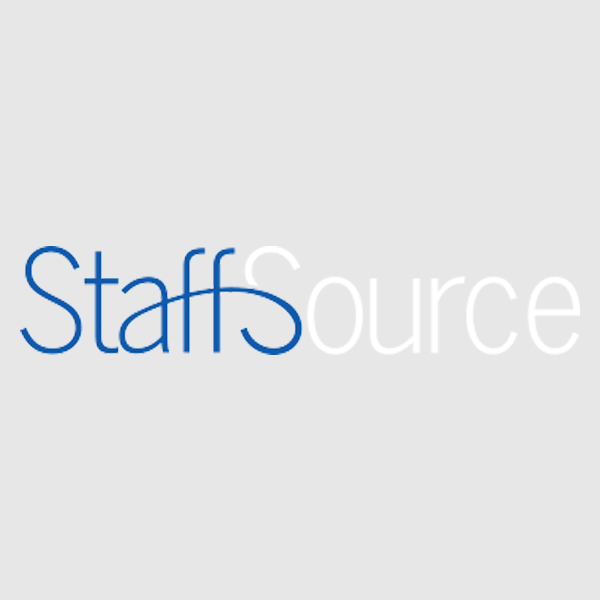
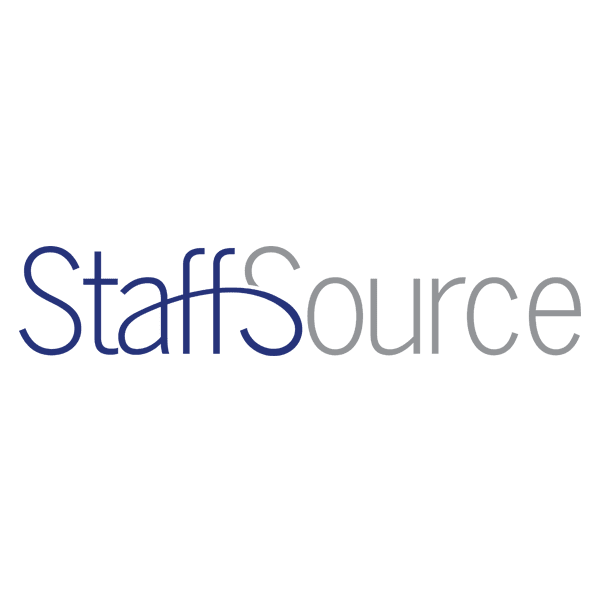
Adding StaffSource to Additional Sponsors

Changed region(s): [[0.03, 0.39, 0.99, 0.6], [0.03, 0.54, 0.12, 0.6]]

diff --git a/lib/html/sponsors-list.html b/lib/html/sponsors-list.html
@@ -77,13 +77,13 @@
 <h3>Additional Sponsors</h3>
 <div class="clearfix" style="margin-bottom: 60px;">
     <div class="one-fourth first">
-        <a href="https://www.cirrusinsight.com/" target="_blank" class="sponsor"><img src="{themedir}/images/sponsors/sponsors.cirrus-insight.600x600.png" alt="Power Up Your Inbox with Cirrus Insight" style="max-width: 250px" class=""></a>
+        <a href="https://www.cirrusinsight.com/" target="_blank" class="sponsor"><img src="{themedir}/images/sponsors/sponsors.cirrus-insight.600x600.png" alt="Power Up Your Inbox with Cirrus Insight" class=""></a>
     </div>
     <div class="one-fourth">
-        <a href="https://www.cisco.com/" target="_blank" class="sponsor"><img src="{themedir}/images/sponsors/sponsors.cisco.600x600.png" alt="Cisco" style="max-width: 250px" class=""></a>
+        <a href="https://www.cisco.com/" target="_blank" class="sponsor"><img src="{themedir}/images/sponsors/sponsors.cisco.600x600.png" alt="Cisco" class=""></a>
     </div>
     <div class="one-fourth">
-        <a href="https://business.comcast.com/" target="_blank" class="sponsor"><img src="{themedir}/images/sponsors/sponsors.comcast-business.600x600.png" alt="Comcast Business" style="max-width: 250px" class=""></a>
+        <a href="https://business.comcast.com/" target="_blank" class="sponsor"><img src="{themedir}/images/sponsors/sponsors.comcast-business.600x600.png" alt="Comcast Business" class=""></a>
     </div>
     <div class="one-fourth">
         <a href="https://duo.com/" target="_blank" class="sponsor"><img src="{themedir}/images/sponsors/sponsors.duo-security.600x600.png" alt="Duo - The Trusted Access Company"/></a>
@@ -91,8 +91,11 @@
 </div>
 <div class="clearfix" style="margin-bottom: 60px">
         <div class="one-fourth first">
-        <a href="http://www.ripleypr.com/" target="_blank" class="sponsor"><img src="{themedir}/images/sponsors/sponsors.ripley.600x600.png" alt="Ripley PR" style="max-width: 250px" class=""></a>
-    </div>
+            <a href="http://www.ripleypr.com/" target="_blank" class="sponsor"><img src="{themedir}/images/sponsors/sponsors.ripley.600x600.png" alt="Ripley PR" class=""></a>
+        </div>
+        <div class="one-fourth">
+            <a href="http://staffsource.com/" target="_blank" class="sponsor"><img src="{themedir}/images/sponsors/sponsors.staffsource.600x600.png" alt="StaffSource" class=""></a>
+        </div>
 </div>
 <hr/>
 <h3>Community Partners</h3>
